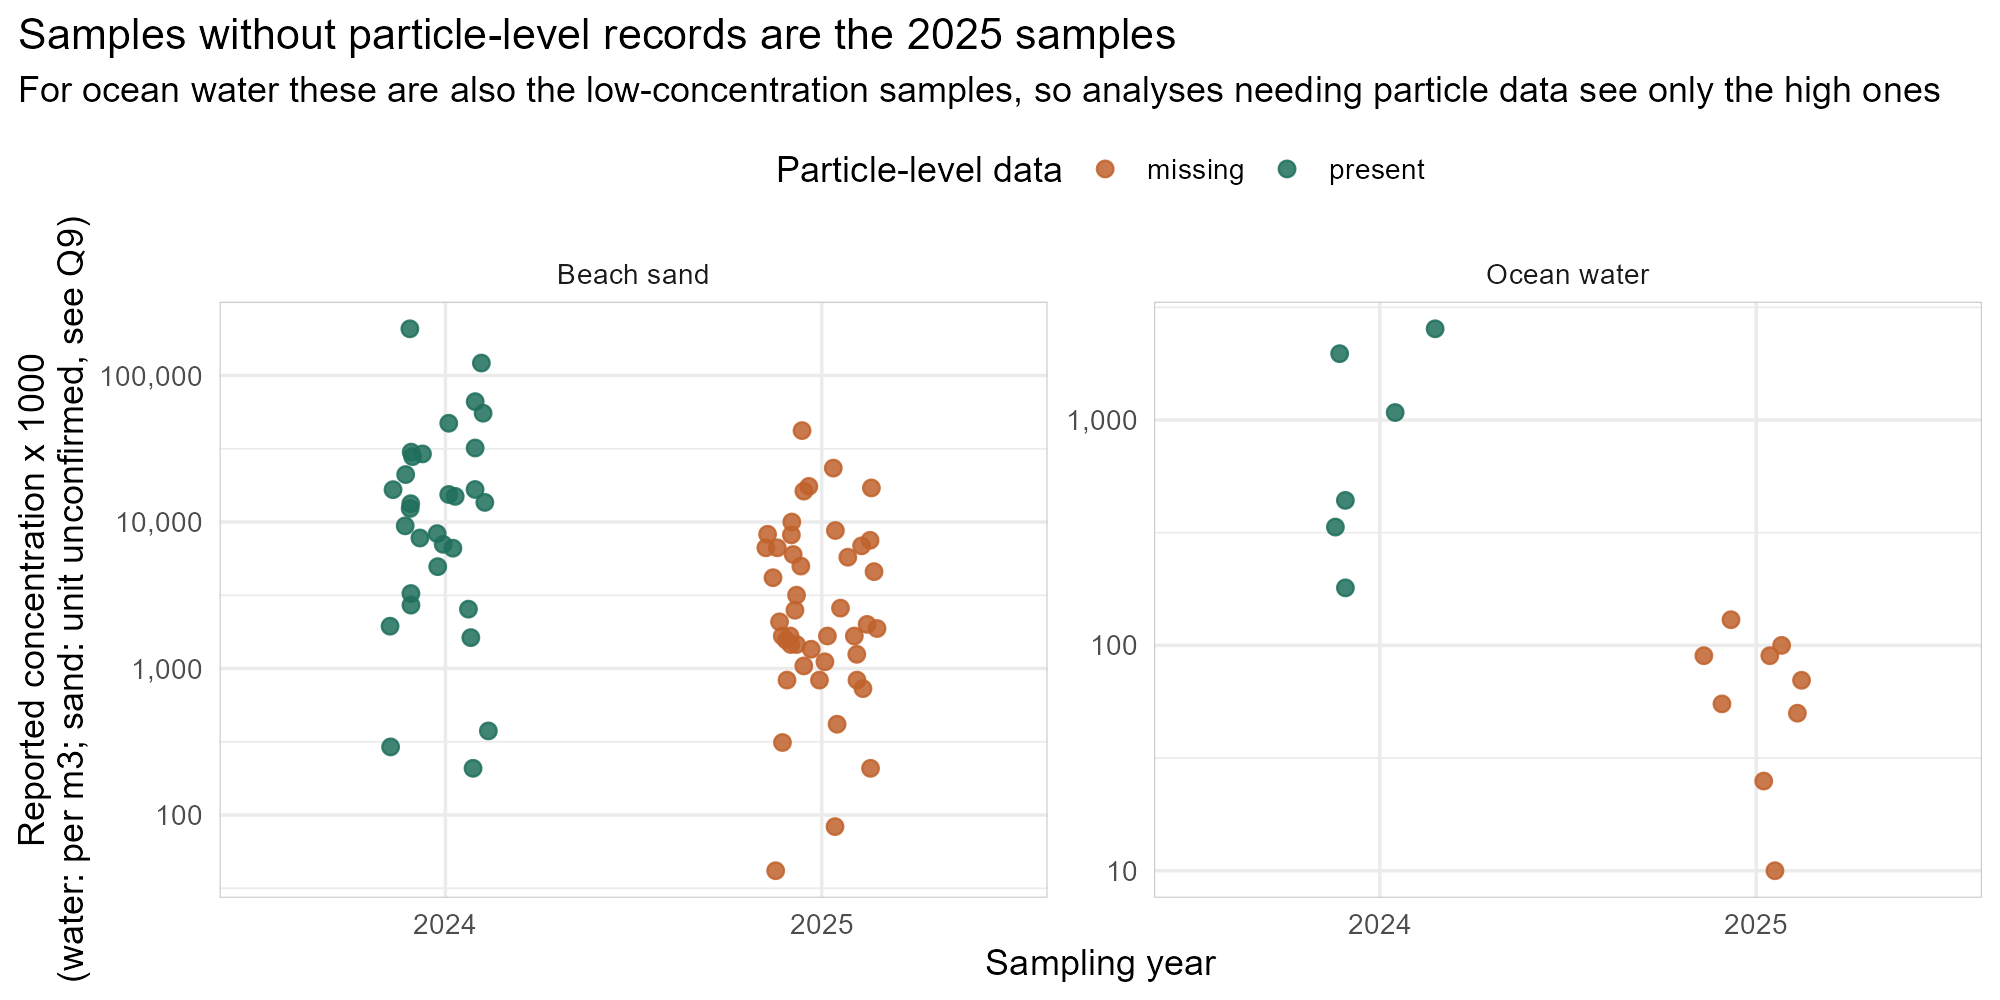
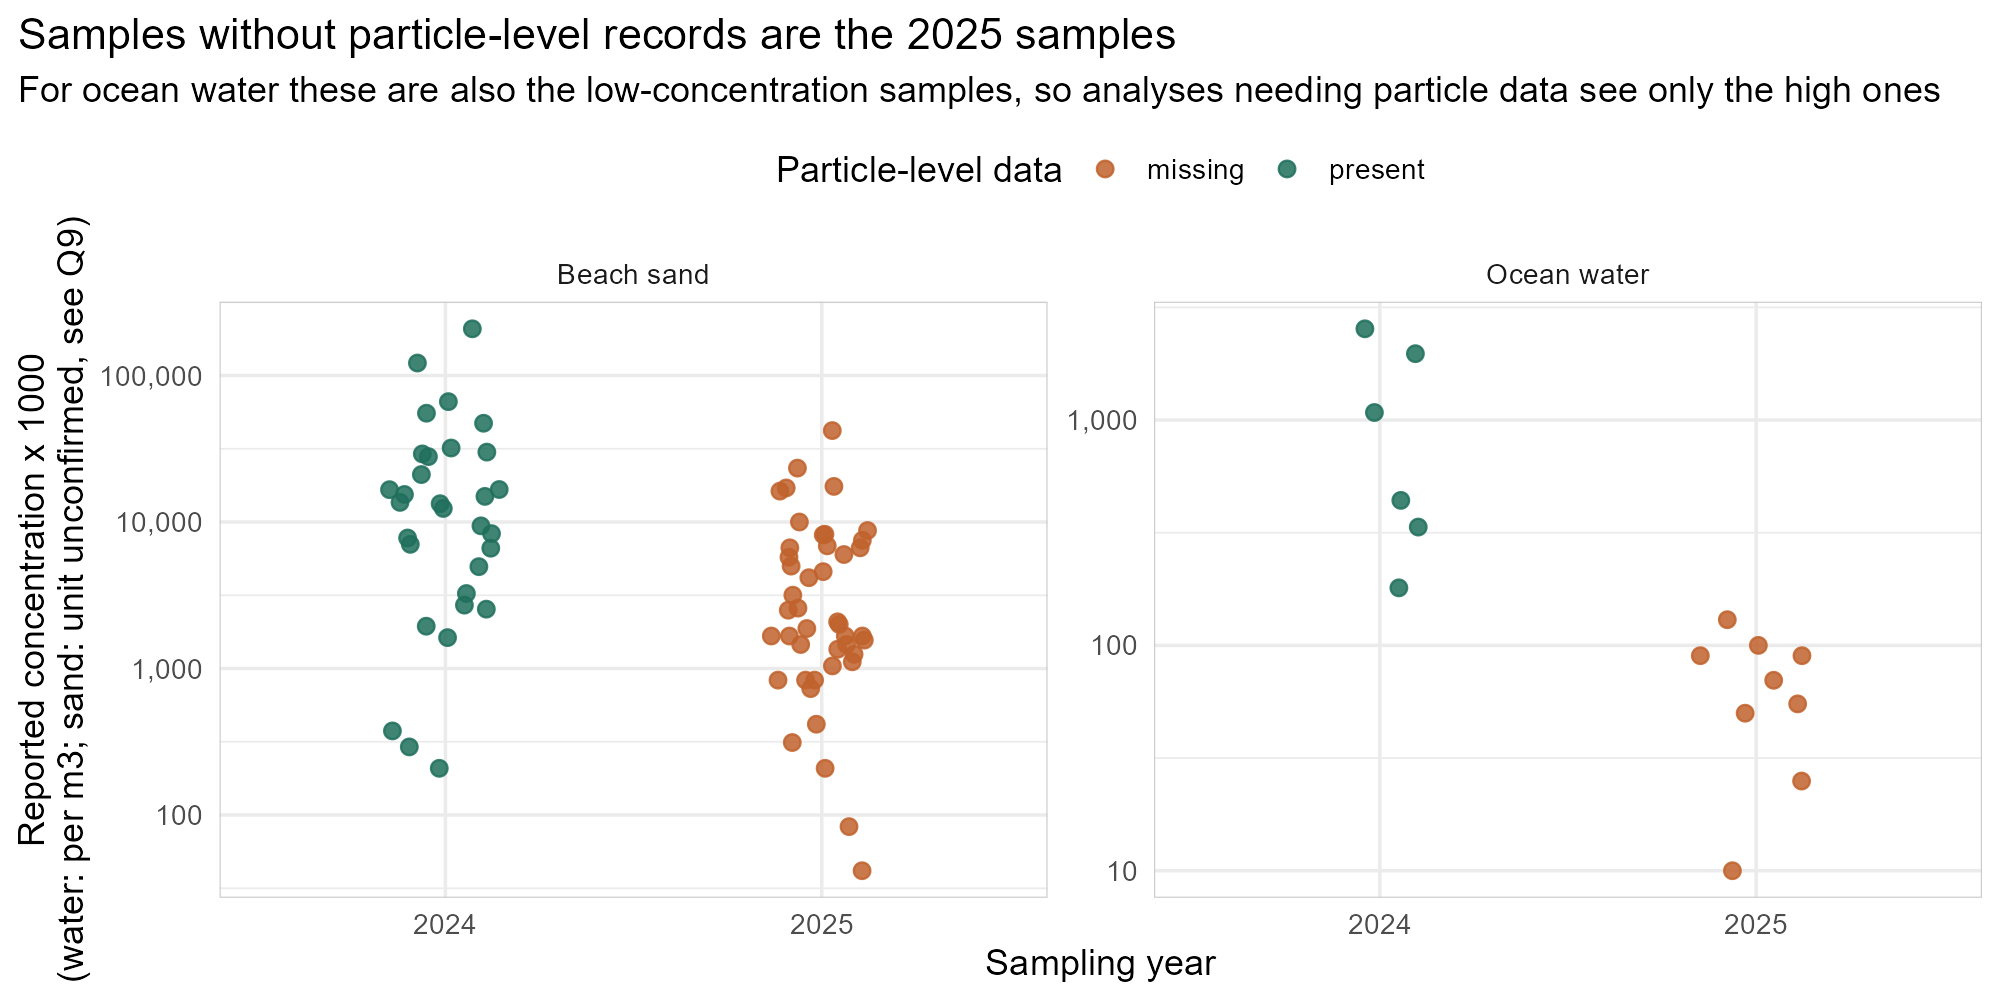
Lab question sheet: add river-water decomposition vs RIVM Dutch rivers (Section 3.2, Figure 8)

diff --git a/docs/lab_questions/lab_data_questions.md b/docs/lab_questions/lab_data_questions.md
@@ -35,7 +35,7 @@ For the rescaling to be valid, **the concentration and the CF must describe the 
 
 - **A polarity error in our spectral filter.** Our pipeline kept particles with `bad_spectra == TRUE`, assuming TRUE meant a good spectrum. The data show TRUE means the match correlation is 0.66 or lower (Figure 1). We were therefore fitting slopes on the *poorly* matched particles only (1,195 of 7,148 QC-passing river particles). The filter now keeps `bad_spectra == FALSE`. This changes every slope and concentration.
 - **A provisional change to how concentrations are built.** Concentrations are now rebuilt from QC-passing particle rows scaled by your aliquot factor, rather than taking your reported concentration and multiplying it by the in-window share. We flagged this as needing your confirmation before publication, because it depends on what the particle rows represent (Q3–Q8).
-- **An unexpectedly high ocean estimate.** After these changes, our rescaled ocean concentrations came out about 40 times higher than the global MPsizeBase compilation. On identical measured size windows, Monterey Bay sits inside the literature range. Section 3 traces the gap to data-handling choices that only you can settle.
+- **Unexpectedly high rescaled estimates, in ocean and river water.** After these changes, our rescaled ocean concentrations came out about 40 times higher than the global MPsizeBase compilation. The all-river median came out 16–31 times higher than Dutch rivers measured by µFTIR (RIVM 2026 benchmark). On identical measured size windows, both sit inside or below the literature range. Section 3 traces the gaps to data-handling choices that only you can settle. Most of them affect river and ocean water alike.
 
 ---
 
@@ -77,7 +77,9 @@ For the rescaling to be valid, **the concentration and the CF must describe the 
 
 ---
 
-## 3. Why the ocean estimate is so high
+## 3. Why the rescaled estimates are so high
+
+### 3.1 Ocean water
 
 ![Figure 5](figs/fig5_ocean_decomposition.png)
 
@@ -87,7 +89,33 @@ For the rescaling to be valid, **the concentration and the CF must describe the 
 2. **Rebuild basis and blanks (×1.7).** The particle rows outnumber the summary counts and are not blank-corrected. → Q3, Q4
 3. **Anchor and extrapolation (×2.8).** With the corrected filter, the ocean fit window moved up to 250–985 µm. It holds 21% of the 50–500 µm particles where the fitted power law predicts 6.4%, so the measured distribution is flatter than the fitted slope at the small end. Rescaling from the upper window then puts 98% of the 1–5000 µm count below 10 µm. → Q6, Q14
 
-The report computes this decomposition live (Section 13.6, subsection D6). The same mechanisms affect river water, more mildly: the rebuilt river concentration is about 1.85 times the reported one.
+The report computes this decomposition live (Section 13.6, subsection D6).
+
+### 3.2 River water: the same mechanisms, plus steep slopes
+
+The river comparison uses the RIVM Dutch-river benchmark in the report (Section 13.4; Mintenig et al. 2020, 2025 and Mughini-Gras et al. 2021, compiled by Quik et al. 2026). On the measured 50–500 µm window, with no extrapolation, our four rivers have a median of about 200 particles per m³ from the reported concentrations. The FTIR-measured Dutch rivers have 250 (Meuse) and 350 (Dommel). Monterey Bay rivers are therefore not more contaminated where both studies actually counted particles. The gap opens only after rescaling to 1–5000 µm.
+
+![Figure 8](figs/fig8_river_decomposition.png)
+
+*Figure 8. River 1–5000 µm estimate step by step, by river (medians over samples). Dashed and dotted lines: Dutch FTIR rivers rescaled the same way (RIVM W1 medians, about 39,000 and 74,000 per m³).*
+
+| Step (median over samples, MP per m³) | All rivers | Carmel | Pajaro | Salinas | San Lorenzo |
+|---|---|---|---|---|---|
+| A. Reported 50–500 µm, sieve-anchored with each river's slope (= RIVM W1) | 282,000 | 78,400 | 3,060,000 | 350,000 | 70,100 |
+| B. Rebuilt from QC-passing particle rows | 559,000 | 197,000 | 4,510,000 | 934,000 | 97,300 |
+| C. Anchored on the LOD window (production) | 1,200,000 | 241,000 | 30,600,000 | 2,470,000 | 144,000 |
+| Fitted slope (a) | | −2.61 | −3.46 | −3.04 | −2.40 |
+| LOD window (µm) | | 165–535 | 145–535 | 145–480 | 80–330 |
+| Share of 1–5000 µm count below 10 µm | | 97.5% | 99.7% | 99.1% | 96.0% |
+
+How each ocean mechanism carries over to rivers:
+
+1. **Sample selection: small for rivers.** 56 of 57 river samples have particle rows; only SRR20250303SD (47 particles) is missing. Rivers do not have the ocean's ×7.6 selection bias, but the gap would reappear for any river samples added in 2025 without an updated export. → Q10
+2. **Rebuild basis and blanks: ×2.0.** QC-passing rows exceed the summary counts in every river (median ratio 1.65 for San Lorenzo to 2.29 for Carmel). Blanks matter more for rivers than the ratio suggests: the median field blank holds 11 QC-passing particles, 31% of the median river sample (35), and 22 of 57 river samples hold no more than twice the median blank. Without blank correction of the particle rows, low-concentration river samples are mostly contamination. → Q3, Q4, Q11
+3. **Anchor and extrapolation: ×2.1.** In every river the LOD window holds more particles than the fitted power law predicts: 1.45 times (San Lorenzo), 2.15 (Carmel), 3.2 (Salinas) and 4.1 (Pajaro). The measured size distribution is flatter than the fitted slope below about 150 µm, the pattern expected if particles of 50–150 µm are under-detected or lost in processing. → Q6, Q14
+4. **River-specific: steep slopes.** Even before the rebuild and anchor steps (step A), Carmel and San Lorenzo match the Dutch FTIR rivers (1–2 times), but Salinas is 5–9 times and Pajaro 40–80 times higher. That is because Pajaro (−3.46) and Salinas (−3.04) have much steeper fitted slopes than the Dutch FTIR rivers (about −2.3). Rescaling from 50–500 µm multiplies by about 15,000 for Pajaro and 3,000 for Salinas, against 45–430 for the Dutch data. A steep fitted slope can be real, but it can also come from incomplete detection near the bottom of the fit window or from the fit window itself, so the measurement definitions and detection floor matter here too. → Q14
+
+In short, the river and ocean overestimates share their causes: particle rows that are not blank-corrected and do not match the summary counts, a flatter-than-power-law distribution at the small end, and steep slopes that put almost the whole 1–5000 µm count below 10 µm. The ocean adds a sample-selection bias that rivers largely escape.
 
 ---
 
